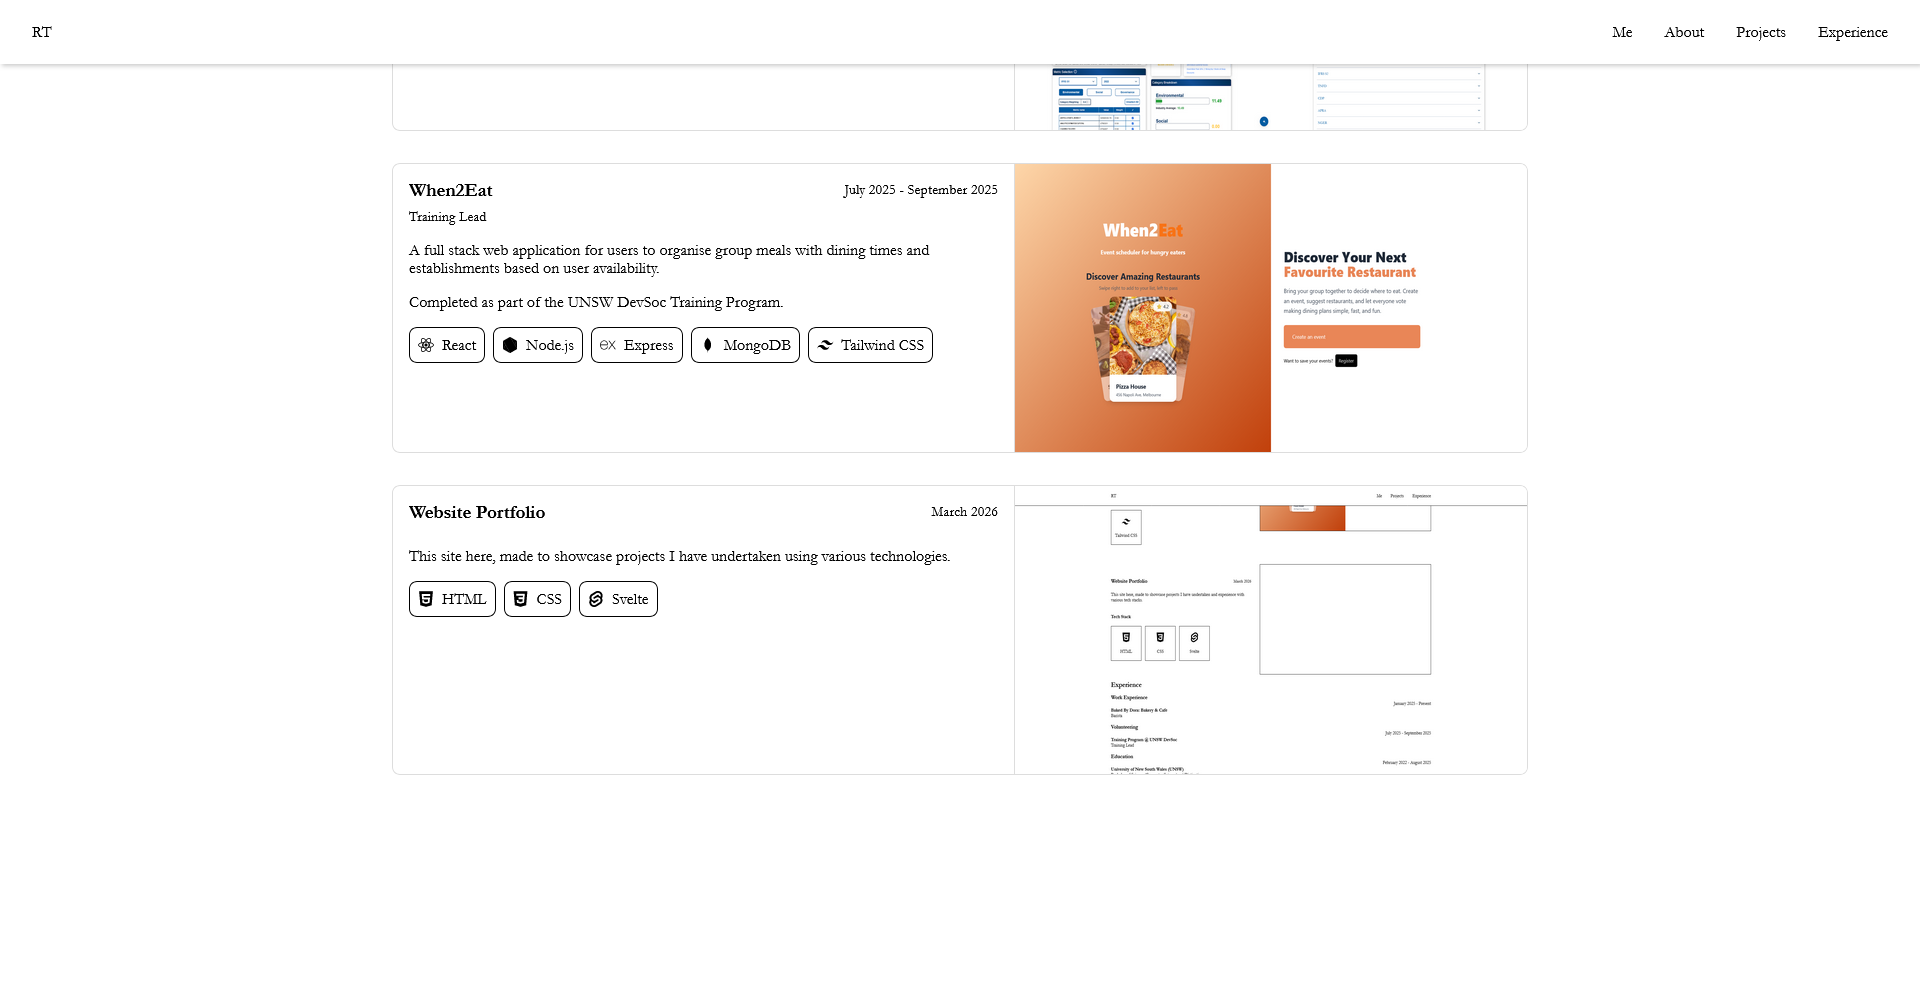
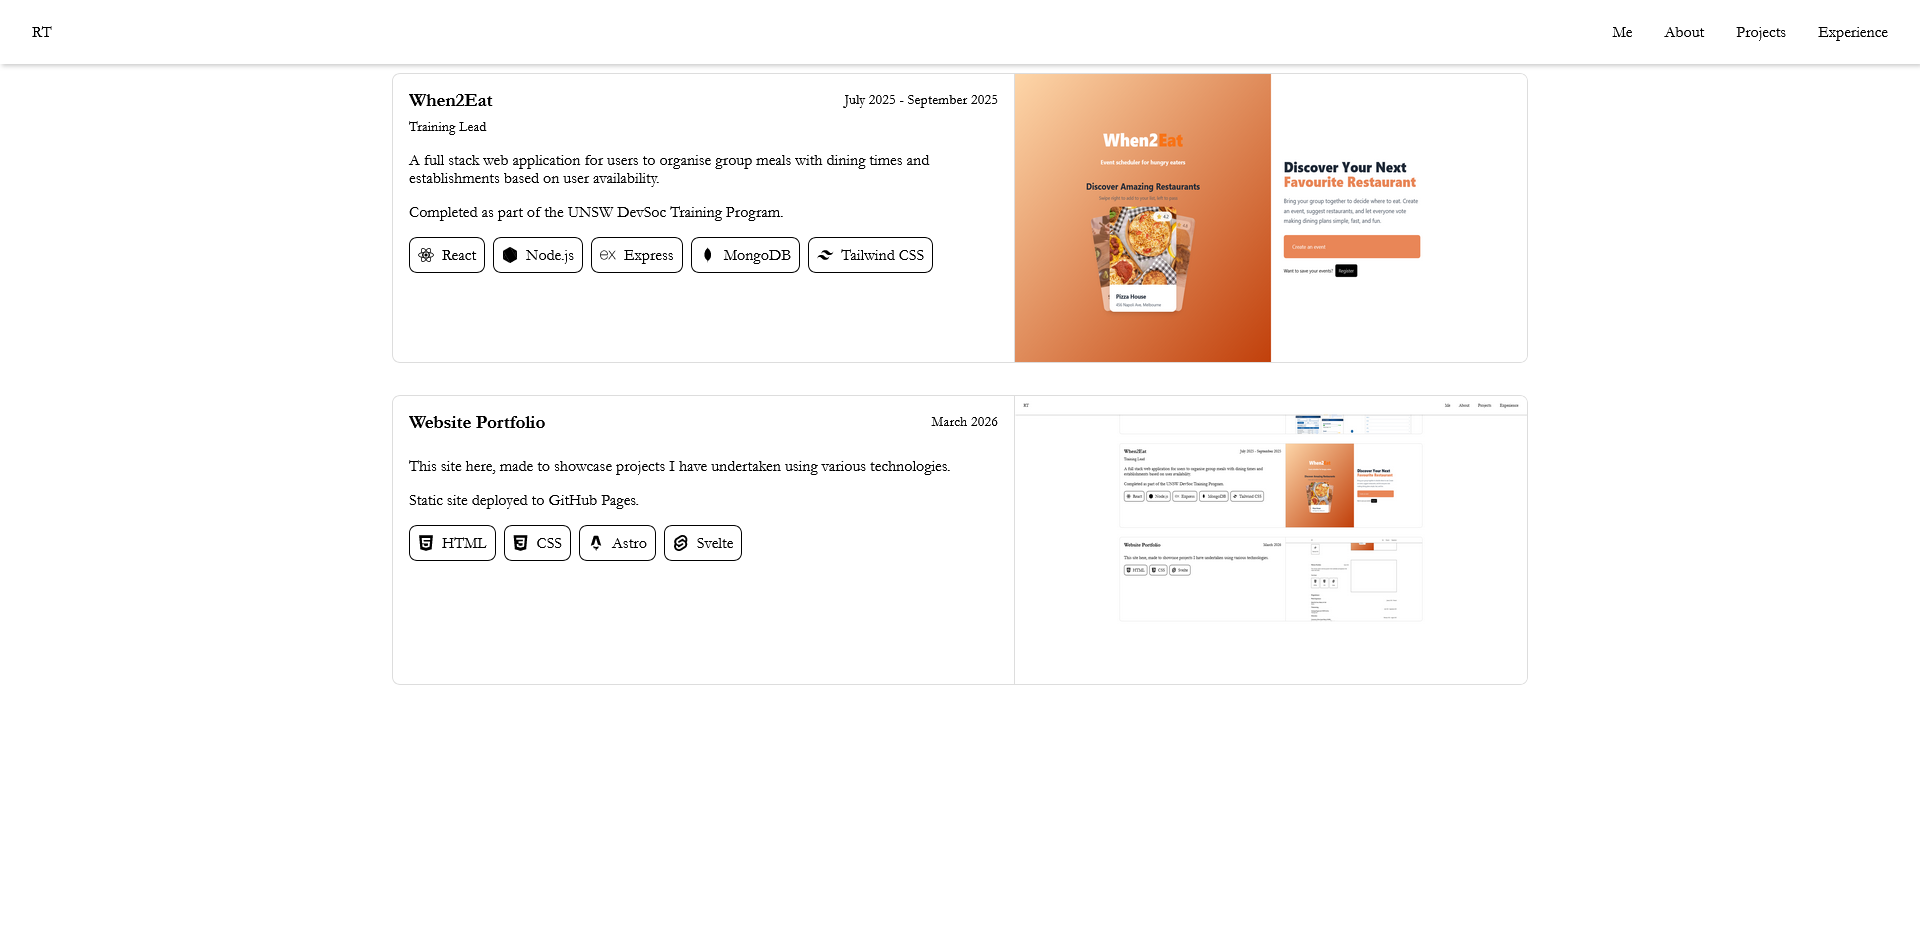
added astro to website porfolio

diff --git a/molecular-meridian/src/components/About.svelte b/molecular-meridian/src/components/About.svelte
@@ -3,7 +3,7 @@
 
     const languages: string[] = ["HTML", "CSS", "C", "JavaScript", "TypeScript", "Java", "Shell", "Python", "Rust", "C++", "C#"]
 
-    const frameworks: string[] = ["Node.js", "Express", "React", "Tailwind CSS", "Angular", "Next.js", "ASP.NET Core", "Svelte"]
+    const frameworks: string[] = ["Node.js", "Express", "React", "Tailwind CSS", "Angular", "Next.js", "ASP.NET Core", "Astro", "Svelte"]
 
     const tools: string[] = ["GitHub", "PostgreSQL", "Docker", "Jira", "Confluence", "MongoDB", "Supabase", "MySQL"]
 </script>

diff --git a/molecular-meridian/src/components/Projects.svelte b/molecular-meridian/src/components/Projects.svelte
@@ -60,7 +60,7 @@
                 "Static site deployed to GitHub Pages."
             ]}
             period="March 2026"
-            techStack={["HTML", "CSS", "Svelte"]}
+            techStack={["HTML", "CSS", "Astro", "Svelte"]}
             shortName="website"
             images=1
         />
